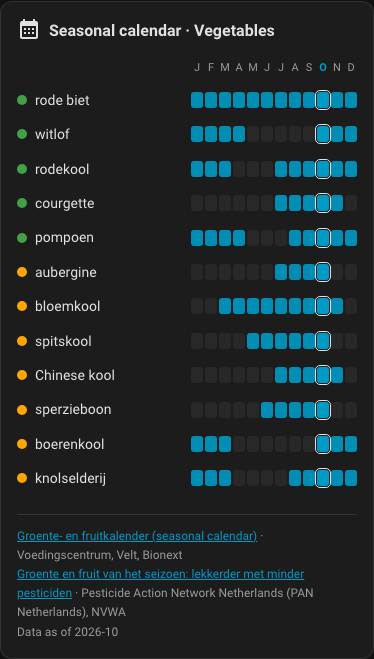
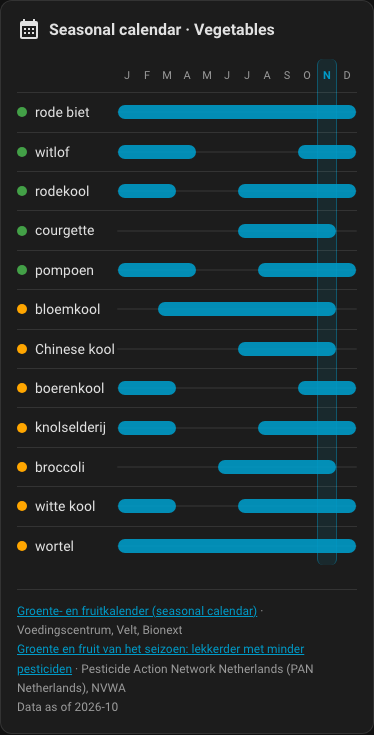
feat: drop the provisional pesticide notice from the cards and refresh the README images

diff --git a/custom_components/seasonal_groceries/frontend/src/credits-footer.ts b/custom_components/seasonal_groceries/frontend/src/credits-footer.ts
@@ -1,10 +1,10 @@
 import { LitElement, html, css } from 'lit';
 import { property } from 'lit/decorators.js';
 import { customElement } from './register';
-import type { Credit, ProduceType } from './api';
+import type { Credit } from './api';
 import { translator } from './i18n';
 
-/** Footer shown on every card: who the data comes from, when, and what is provisional. */
+/** Footer shown on every card: who the data comes from, when. */
 @customElement('sg-credits-footer')
 export class CreditsFooter extends LitElement {
   static styles = css`
@@ -24,12 +24,10 @@ export class CreditsFooter extends LitElement {
 
   @property({ attribute: false }) credits: Record<string, Credit> = {};
   @property() dataAsOf = '';
-  @property({ attribute: false }) provisional: ProduceType[] = [];
   @property() language = 'en';
 
   render() {
     const t = translator(this.language);
-    const types = this.provisional.map(type => t(`common.${type}`).toLowerCase()).join(', ');
     return html`
       ${Object.values(this.credits).map(
         credit => html`<div>
@@ -38,7 +36,6 @@ export class CreditsFooter extends LitElement {
         </div>`,
       )}
       ${this.dataAsOf ? html`<div>${t('credits.data_as_of', { date: this.dataAsOf })}</div>` : ''}
-      ${types ? html`<div>${t('credits.provisional', { types })}</div>` : ''}
     `;
   }
 }

diff --git a/custom_components/seasonal_groceries/frontend/src/calendar-card.ts b/custom_components/seasonal_groceries/frontend/src/calendar-card.ts
@@ -260,7 +260,6 @@ export class CalendarCard extends SeasonalCard {
           ? html`<sg-credits-footer
               .credits=${this._items.credits}
               .dataAsOf=${this._items.data_as_of}
-              .provisional=${this._items.provisional_cutoffs.filter(p => p === type)}
               .language=${this.hass?.language ?? 'en'}
             ></sg-credits-footer>`
           : ''}

diff --git a/custom_components/seasonal_groceries/frontend/src/now-card.ts b/custom_components/seasonal_groceries/frontend/src/now-card.ts
@@ -98,7 +98,6 @@ export class NowCard extends SeasonalCard {
           ? html`<sg-credits-footer
               .credits=${this._items.credits}
               .dataAsOf=${this._items.data_as_of}
-              .provisional=${this._items.provisional_cutoffs.filter(p => p === type)}
               .language=${this.hass?.language ?? 'en'}
             ></sg-credits-footer>`
           : ''}
